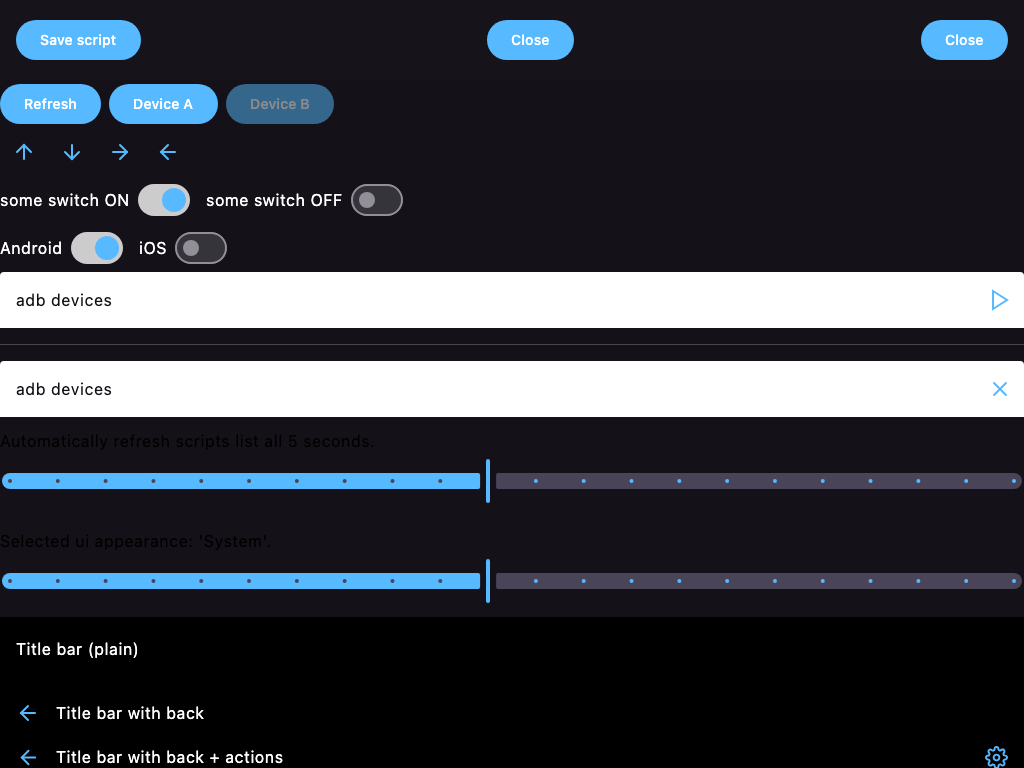
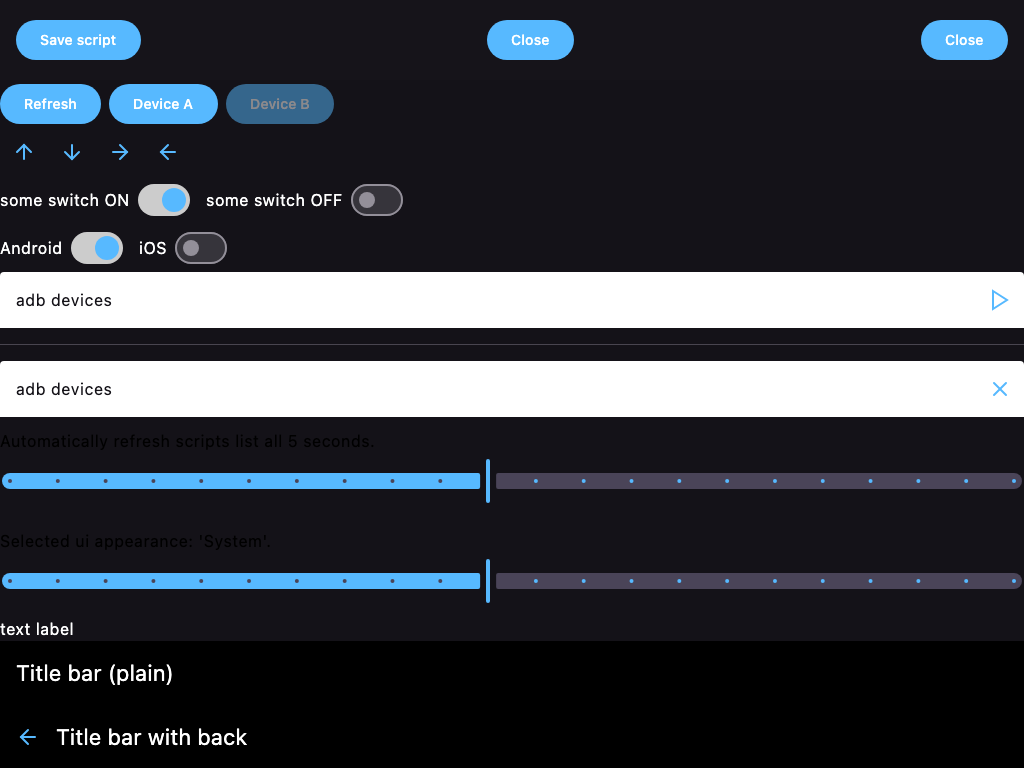
create text label

Changed region(s): [[0.0, 0.8125, 0.2812, 1.0], [0.9688, 0.9688, 1.0, 1.0], [0.0, 0.9688, 0.0312, 1.0]]

diff --git a/composeApp/src/commonMain/kotlin/de/joz/appcommander/ui/misc/TextLabel.kt b/composeApp/src/commonMain/kotlin/de/joz/appcommander/ui/misc/TextLabel.kt
@@ -1,0 +1,82 @@
+package de.joz.appcommander.ui.misc
+
+import androidx.compose.foundation.layout.Arrangement
+import androidx.compose.foundation.layout.Row
+import androidx.compose.material3.MaterialTheme
+import androidx.compose.material3.Text
+import androidx.compose.runtime.Composable
+import androidx.compose.ui.Modifier
+import androidx.compose.ui.text.TextStyle
+import androidx.compose.ui.unit.dp
+import de.joz.appcommander.ui.theme.AppCommanderTheme
+import org.jetbrains.compose.ui.tooling.preview.Preview
+
+@Composable
+fun TextLabel(
+	label: String,
+	textLabelType: TextLabelType = TextLabelType.BodyLarge,
+	textModifier: Modifier = Modifier,
+) {
+	Text(
+		text = label,
+		modifier = textModifier,
+		style =
+			when (textLabelType) {
+				TextLabelType.BodyLarge -> MaterialTheme.typography.bodyLarge.applyThemeColor()
+				TextLabelType.BodyMedium -> MaterialTheme.typography.bodyMedium.applyThemeColor()
+				TextLabelType.BodySmall -> MaterialTheme.typography.bodySmall.applyThemeColor()
+				TextLabelType.HeadlineLarge -> MaterialTheme.typography.headlineLarge.applyThemeColor()
+				TextLabelType.HeadlineSmall -> MaterialTheme.typography.headlineSmall.applyThemeColor()
+			},
+	)
+}
+
+@Composable
+private fun TextStyle.applyThemeColor(): TextStyle =
+	copy(
+		color = MaterialTheme.colorScheme.onSurface,
+	)
+
+enum class TextLabelType {
+	BodyLarge,
+	BodyMedium,
+	BodySmall,
+	HeadlineLarge,
+	HeadlineSmall,
+}
+
+@Preview
+@Composable
+internal fun PreviewTextLabel_Dark() {
+	AppCommanderTheme(
+		darkTheme = true,
+	) {
+		Row(
+			horizontalArrangement = Arrangement.spacedBy(16.dp),
+		) {
+			TextLabelType.entries.forEach {
+				TextLabel(
+					label = it.name,
+				)
+			}
+		}
+	}
+}
+
+@Preview
+@Composable
+internal fun PreviewTextLabel_Light() {
+	AppCommanderTheme(
+		darkTheme = false,
+	) {
+		Row(
+			horizontalArrangement = Arrangement.spacedBy(16.dp),
+		) {
+			TextLabelType.entries.forEach {
+				TextLabel(
+					label = it.name,
+				)
+			}
+		}
+	}
+}

diff --git a/composeApp/src/commonTest/kotlin/de/joz/appcommander/ui/misc/UiElementsTest.kt b/composeApp/src/commonTest/kotlin/de/joz/appcommander/ui/misc/UiElementsTest.kt
@@ -73,6 +73,7 @@ class UiElementsTest {
 							PreviewSectionDivider_Dark()
 							PreviewSimpleTextInput_Dark()
 							PreviewSlider_Dark()
+							PreviewTextLabel_Dark()
 							PreviewTitleBar_Dark()
 						} else {
 							PreviewBottomBar_Light()
@@ -84,6 +85,7 @@ class UiElementsTest {
 							PreviewSectionDivider_Light()
 							PreviewSimpleTextInput_Light()
 							PreviewSlider_Light()
+							PreviewTextLabel_Light()
 							PreviewTitleBar_Light()
 						}
 					}
